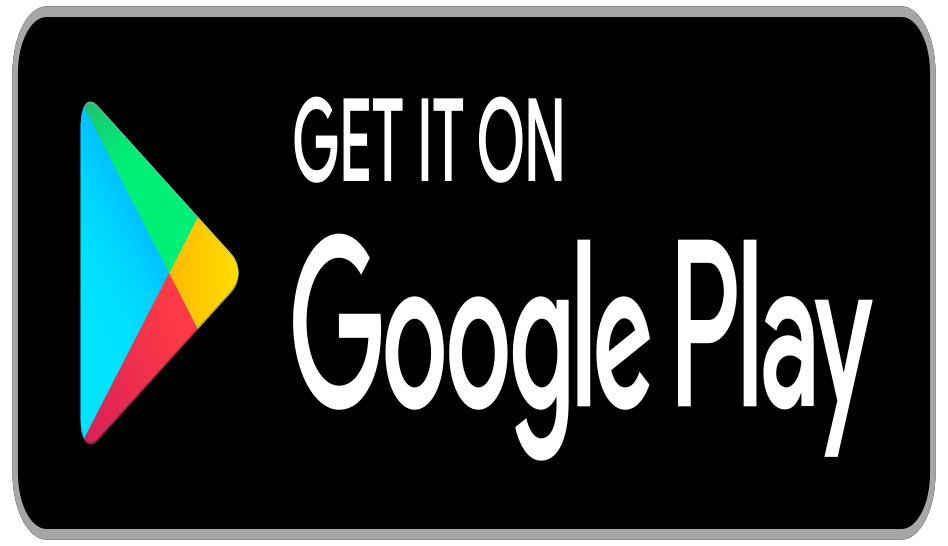
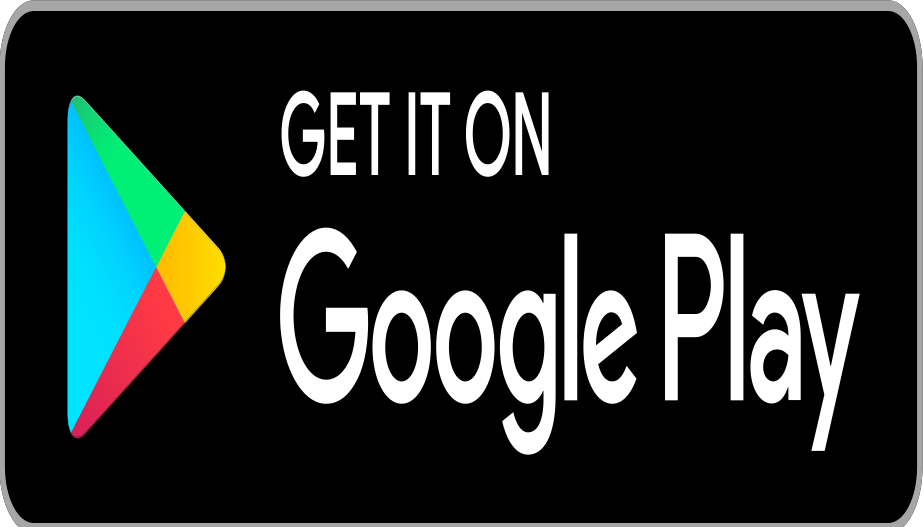
Resolved alignment issue with playstore button

diff --git a/static/index.css b/static/index.css
@@ -242,6 +242,7 @@ a {
   height: 60%;
   justify-content: center;
   align-items: left;
+  padding-left: 10px;
 }
 
 .front-content-main-heading {
@@ -266,8 +267,8 @@ a {
 }
 
 .playstore-download-button-img {
-  height: 100px;
-  width: 250px;
+  height: 70px;
+  width: 200px;
 }
 
 /* .playstore-button-text-container {

diff --git a/templates/index.html b/templates/index.html
@@ -83,7 +83,7 @@
             </p>
             <button class="playstore-download-button">
               <img
-                src="../static/Google Playstore.svg"
+                src="../static/Google Playstore.png"
                 alt=""
                 class="playstore-download-button-img"
               />
